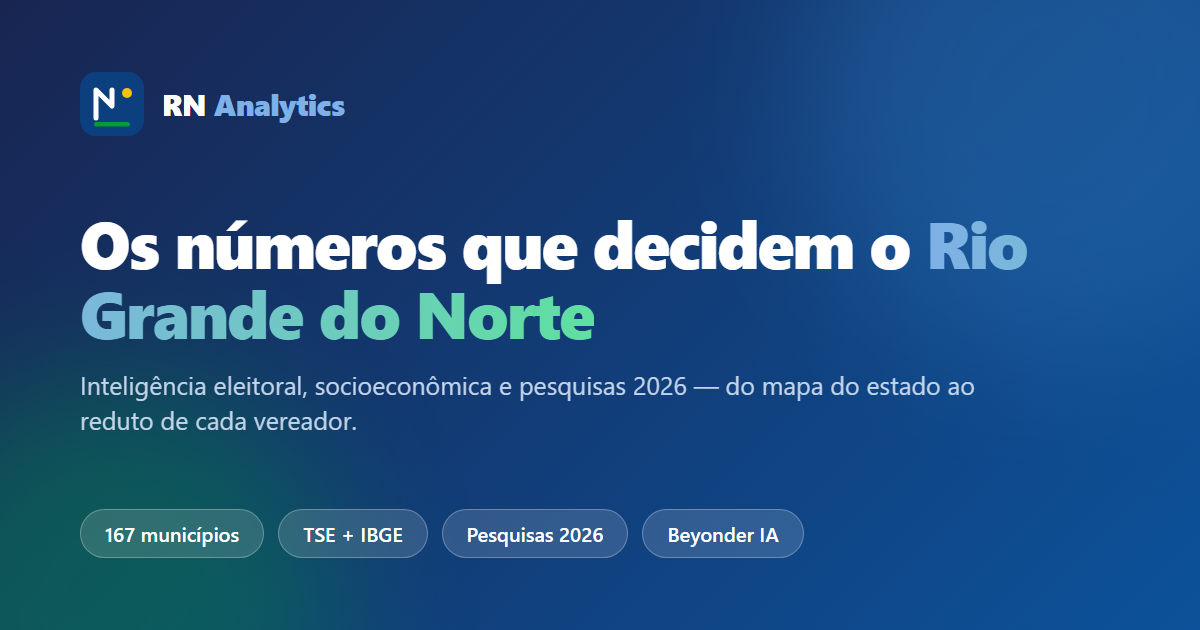
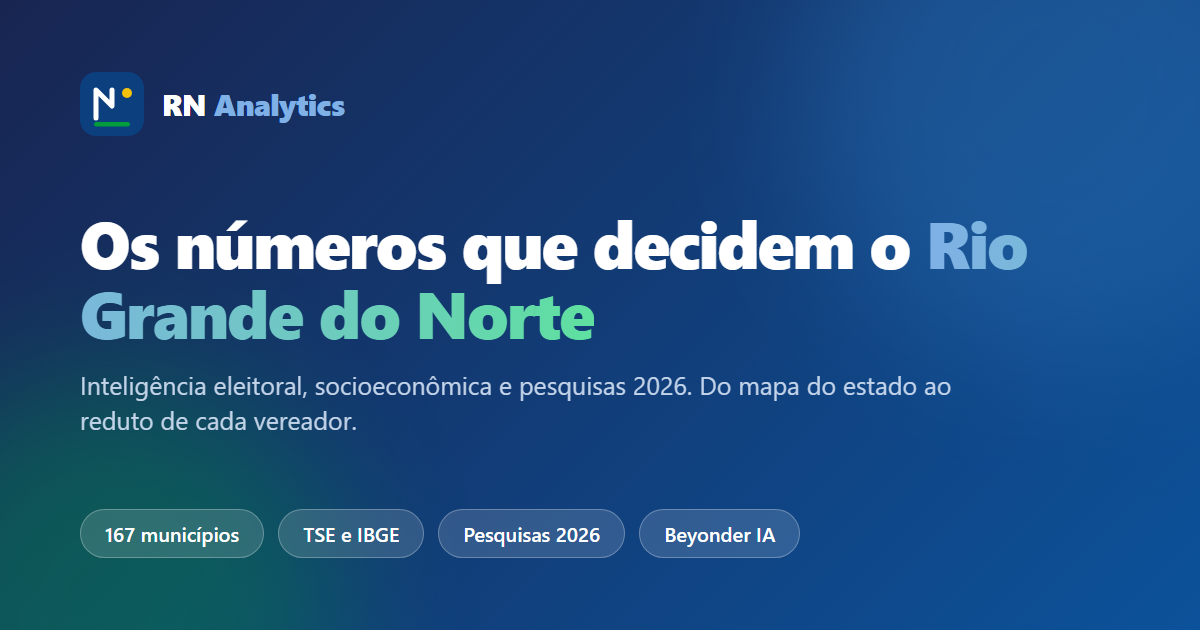
Mapa de ruas (Leaflet) em Currais Novos e escrita humanizada
- Mapa estilo Google nos redutos de Currais Novos: Leaflet + tiles CARTO gratuitos, pinos nas escolas por coordenada, tamanho/cor por votos, popups; alterna com o mapa esquemático
- Remove travessoes da escrita e troca "&" por "e" em todo o sistema (texto mais humano)
- Imagem Open Graph atualizada sem travessao

Changed region(s): [[0.2775, 0.8143, 0.6783, 0.8746], [0.5858, 0.6032, 0.8325, 0.6333]]

diff --git a/web/components/CNStreetMap.tsx b/web/components/CNStreetMap.tsx
@@ -1,0 +1,120 @@
+/* eslint-disable @typescript-eslint/no-explicit-any */
+"use client";
+
+import "leaflet/dist/leaflet.css";
+import { useEffect, useRef } from "react";
+
+export type MapPoint = {
+  nr: string;
+  nome: string;
+  bairro: string;
+  lat: number;
+  long: number;
+  eleitores: number;
+  n_secoes: number;
+  value: number;
+};
+
+// cor: azul claro -> royal -> navy, com dourado no topo (mesma escala do mapa esquemático)
+function colorFor(t: number) {
+  if (t > 0.82) return "#caa106";
+  const lerp = (a: number, b: number) => Math.round(a + (b - a) * t);
+  return `rgb(${lerp(180, 12)}, ${lerp(206, 63)}, ${lerp(235, 126)})`;
+}
+
+export default function CNStreetMap({
+  points,
+  selected,
+  onSelect,
+  max,
+  metricLabel,
+}: {
+  points: MapPoint[];
+  selected: string | null;
+  onSelect: (nr: string | null) => void;
+  max: number;
+  metricLabel: string;
+}) {
+  const elRef = useRef<HTMLDivElement>(null);
+  const mapRef = useRef<any>(null);
+  const layerRef = useRef<any>(null);
+  const LRef = useRef<any>(null);
+  // mantém os valores atuais acessíveis dentro de handlers/closures
+  const dataRef = useRef({ points, selected, onSelect, max, metricLabel });
+  dataRef.current = { points, selected, onSelect, max, metricLabel };
+
+  // inicializa o mapa uma única vez
+  useEffect(() => {
+    let cancelled = false;
+    (async () => {
+      const L = (await import("leaflet")).default as any;
+      if (cancelled || !elRef.current || mapRef.current) return;
+      LRef.current = L;
+      const map = L.map(elRef.current, {
+        scrollWheelZoom: false,
+        zoomControl: true,
+        attributionControl: true,
+      }).setView([-6.262, -36.518], 13);
+      L.tileLayer("https://{s}.basemaps.cartocdn.com/light_all/{z}/{x}/{y}{r}.png", {
+        attribution: '&copy; <a href="https://openstreetmap.org">OSM</a> &copy; <a href="https://carto.com">CARTO</a>',
+        subdomains: "abcd",
+        maxZoom: 19,
+      }).addTo(map);
+      layerRef.current = L.layerGroup().addTo(map);
+      mapRef.current = map;
+      draw();
+      // recalcula tamanho após render
+      setTimeout(() => map.invalidateSize(), 200);
+    })();
+    return () => {
+      cancelled = true;
+      if (mapRef.current) {
+        mapRef.current.remove();
+        mapRef.current = null;
+      }
+    };
+    // eslint-disable-next-line react-hooks/exhaustive-deps
+  }, []);
+
+  // redesenha os marcadores quando os dados mudam
+  useEffect(() => {
+    draw();
+    // eslint-disable-next-line react-hooks/exhaustive-deps
+  }, [points, selected, max, metricLabel]);
+
+  function draw() {
+    const L = LRef.current;
+    const map = mapRef.current;
+    const layer = layerRef.current;
+    if (!L || !map || !layer) return;
+    const { points, selected, onSelect, max, metricLabel } = dataRef.current;
+    layer.clearLayers();
+    const bounds: [number, number][] = [];
+    for (const p of points) {
+      const t = Math.min(1, p.value / (max || 1));
+      const r = 8 + Math.sqrt(t) * 22;
+      const isSel = selected === p.nr;
+      const marker = L.circleMarker([p.lat, p.long], {
+        radius: r,
+        color: isSel ? "#0b1020" : "#ffffff",
+        weight: isSel ? 3 : 1.6,
+        fillColor: colorFor(t),
+        fillOpacity: 0.82,
+      });
+      marker.bindPopup(
+        `<div style="font-family:system-ui,sans-serif;min-width:160px">
+           <b style="color:#182551;font-size:13px">${p.nome}</b><br>
+           <span style="color:#767f93;font-size:11px">${p.bairro || ""} · ${p.n_secoes} seções</span><br>
+           <b style="color:#0c529a;font-size:13px">${metricLabel}: ${p.value.toLocaleString("pt-BR")}</b><br>
+           <span style="color:#767f93;font-size:11px">${p.eleitores.toLocaleString("pt-BR")} eleitores</span>
+         </div>`
+      );
+      marker.on("click", () => onSelect(isSel ? null : p.nr));
+      marker.addTo(layer);
+      bounds.push([p.lat, p.long]);
+    }
+    if (bounds.length) map.fitBounds(bounds, { padding: [40, 40], maxZoom: 14 });
+  }
+
+  return <div ref={elRef} className="w-full rounded-xl overflow-hidden border border-[color:var(--line)]" style={{ height: 460, zIndex: 0 }} />;
+}

diff --git a/web/components/tabs/MapaVotacaoTab.tsx b/web/components/tabs/MapaVotacaoTab.tsx
@@ -8,6 +8,13 @@ import { Card, Mini, SectionTitle } from "../ui";
 import { fmtInt, partidoLabel, type Candidato } from "../../lib/data";
 import { exportCSV } from "../../lib/export";
 import CandidateModal from "../CandidateModal";
+import dynamic from "next/dynamic";
+import type { MapPoint } from "../CNStreetMap";
+
+const CNStreetMap = dynamic(() => import("../CNStreetMap"), {
+  ssr: false,
+  loading: () => <div className="h-[460px] grid place-items-center text-sm text-[color:var(--muted)]">Carregando mapa...</div>,
+});
 
 type Cand = { sq: string; numero: string; nome: string; partido_num: string; votos: number; rank: number; por_local: Record<string, number> };
 type Cargo = { total_nominais: number; brancos: number; nulos: number; legenda: number; candidatos: Cand[] };
@@ -24,6 +31,7 @@ export default function MapaVotacaoTab({ b }: { b: Bundle }) {
   const cache = useRef<Map<number, CNData>>(new Map());
   const [data, setData] = useState<CNData | null>(null);
   const [selReport, setSelReport] = useState<Candidato | null>(null);
+  const [mapMode, setMapMode] = useState<"ruas" | "esquema">("ruas");
 
   useEffect(() => {
     let alive = true;
@@ -45,6 +53,9 @@ export default function MapaVotacaoTab({ b }: { b: Bundle }) {
     selCand ? selCand.por_local[nr] ?? 0 : cargo === "vereador" ? data.locais.find((l) => l.nr === nr)?.vereador_total ?? 0 : data.locais.find((l) => l.nr === nr)?.prefeito_total ?? 0;
   const max = Math.max(1, ...data.locais.map((l) => valueFor(l.nr)));
   const metricLabel = selCand ? selCand.nome.split(" ").slice(0, 2).join(" ") : "Comparecimento";
+  const points: MapPoint[] = data.locais
+    .filter((l) => l.lat != null && l.long != null)
+    .map((l) => ({ nr: l.nr, nome: l.nome, bairro: l.bairro, lat: l.lat as number, long: l.long as number, eleitores: l.eleitores, n_secoes: l.n_secoes, value: valueFor(l.nr) }));
 
   const candFiltrados = C.candidatos.filter((c) => !busca || c.nome.toLowerCase().includes(busca.toLowerCase()) || c.numero.includes(busca));
   const localObj = localSel ? data.locais.find((l) => l.nr === localSel) : null;
@@ -70,7 +81,7 @@ export default function MapaVotacaoTab({ b }: { b: Bundle }) {
   return (
     <div>
       <div className="flex items-start justify-between gap-4 flex-wrap mb-5">
-        <SectionTitle kicker={`Mapa de votação · ${ano}`} title="Redutos de Currais Novos" desc="Cada círculo é um local de votação (geolocalizado). O tamanho e a cor mostram a votação — escolha um candidato para ver onde está a base dele." />
+        <SectionTitle kicker={`Mapa de votação · ${ano}`} title="Redutos de Currais Novos" desc="Cada círculo é um local de votação geolocalizado. O tamanho e a cor mostram a votação. Escolha um candidato para ver onde está a base dele." />
         <div className="flex flex-col items-end gap-2">
           <div className="segment">{ANOS.map((y) => <button key={y} data-active={ano === y} onClick={() => { setAno(y); setSq(null); }}>{y}</button>)}</div>
           <div className="segment">
@@ -86,12 +97,20 @@ export default function MapaVotacaoTab({ b }: { b: Bundle }) {
             <div className="text-sm font-bold text-[color:var(--navy)]">
               {selCand ? <>Reduto de <span className="text-[color:var(--royal)]">{selCand.nome}</span> ({partidoLabel(selCand.partido_num)})</> : "Comparecimento por local"}
             </div>
-            <div className="flex gap-2">
-              {selCand && <button onClick={() => setSq(null)} className="text-xs font-semibold text-[color:var(--royal)]">← comparecimento</button>}
+            <div className="flex gap-2 items-center flex-wrap">
+              <div className="segment">
+                <button data-active={mapMode === "ruas"} onClick={() => setMapMode("ruas")}>Ruas</button>
+                <button data-active={mapMode === "esquema"} onClick={() => setMapMode("esquema")}>Esquema</button>
+              </div>
+              {selCand && <button onClick={() => setSq(null)} className="text-xs font-semibold text-[color:var(--royal)]">voltar ao comparecimento</button>}
               <button onClick={exportRedutos} className="btn btn-ghost text-xs py-1.5 px-3">Exportar CSV</button>
             </div>
           </div>
-          <CNVotingMap boundary={boundary} locais={data.locais} valueFor={valueFor} max={max} selected={localSel} onSelect={setLocalSel} metricLabel={metricLabel} />
+          {mapMode === "ruas" ? (
+            <CNStreetMap points={points} selected={localSel} onSelect={setLocalSel} max={max} metricLabel={metricLabel} />
+          ) : (
+            <CNVotingMap boundary={boundary} locais={data.locais} valueFor={valueFor} max={max} selected={localSel} onSelect={setLocalSel} metricLabel={metricLabel} />
+          )}
           <div className="flex items-center gap-2 text-xs text-[color:var(--muted)] mt-1">
             <span>menos votos</span>
             <div className="flex rounded overflow-hidden">

diff --git a/web/components/tabs/SobreTab.tsx b/web/components/tabs/SobreTab.tsx
@@ -12,8 +12,8 @@ export default function SobreTab() {
           <Card className="p-5 h-full">
             <h3 className="font-bold text-[color:var(--navy)] mb-2">Fontes de dados</h3>
             <ul className="text-sm text-[color:var(--ink-2)] space-y-1.5">
-              <li>• <b>TSE</b> — Dados Abertos: votação por seção, candidatos e eleitorado (2012–2024).</li>
-              <li>• <b>IBGE</b> — Censo 2022, PIB dos Municípios e Malhas Territoriais.</li>
+              <li>• <b>TSE</b> (Dados Abertos): votação por seção, candidatos e eleitorado, de 2012 a 2024.</li>
+              <li>• <b>IBGE</b>: Censo 2022, PIB dos municípios e malhas territoriais.</li>
             </ul>
           </Card>
         </Reveal>
@@ -34,7 +34,7 @@ export default function SobreTab() {
           <h3 className="font-bold text-[color:var(--navy)] mb-2">Integridade e ética</h3>
           <p className="text-sm text-[color:var(--ink-2)] leading-relaxed">
             Todos os números vêm de fontes oficiais e são rastreáveis (fonte e ano registrados). Valores ausentes
-            permanecem em branco — nunca são estimados sem indicação. O TSE divulga apenas votos <b>agregados por
+            permanecem em branco, nunca são estimados sem indicação. O TSE divulga apenas votos <b>agregados por
             seção</b>; nenhum dado individual de eleitor é utilizado. A plataforma analisa o comportamento de
             territórios, não de pessoas.
           </p>
@@ -45,7 +45,7 @@ export default function SobreTab() {
         <div className="mt-6 rounded-[20px] p-6 text-center text-white relative overflow-hidden" style={{ background: "linear-gradient(120deg, var(--navy), var(--royal))" }}>
           <div className="absolute -right-12 -top-12 w-44 h-44 rounded-full" style={{ background: "var(--gold)", opacity: 0.2, filter: "blur(30px)" }} />
           <p className="text-sm opacity-80">Desenvolvido pela</p>
-          <p className="text-2xl wordmark mt-1">Beyonder IA — 2026</p>
+          <p className="text-2xl wordmark mt-1">Beyonder IA · 2026</p>
           <p className="text-sm opacity-80 mt-1">Johnattan Dias</p>
         </div>
       </Reveal>

diff --git a/web/components/tabs/PredictionTab.tsx b/web/components/tabs/PredictionTab.tsx
@@ -147,7 +147,7 @@ export default function PredictionTab({ b }: { b: Bundle }) {
       <div className="flex items-start justify-between gap-4 flex-wrap mb-5">
         <SectionTitle
           kicker="Inteligência preditiva"
-          title={`Projeções & cenários — ${munNome}`}
+          title={`Projeções e cenários de ${munNome}`}
           desc="Projeção das próximas eleições de vereador (2028) a partir da tendência 2012–2024, com simulador de cenários. É uma estimativa estatística, não uma previsão garantida."
         />
         <select
@@ -267,7 +267,7 @@ export default function PredictionTab({ b }: { b: Bundle }) {
           {/* tabela histórica + projeção */}
           <Card className="p-0 overflow-hidden mt-4">
             <div className="px-5 py-4 border-b border-[color:var(--line)]">
-              <h4 className="text-sm font-bold text-[color:var(--navy)]">Participação por partido (%) — histórico e projeção</h4>
+              <h4 className="text-sm font-bold text-[color:var(--navy)]">Participação por partido (%): histórico e projeção</h4>
             </div>
             <div className="overflow-x-auto">
               <table className="w-full text-sm">
@@ -303,7 +303,7 @@ export default function PredictionTab({ b }: { b: Bundle }) {
           {govPesquisa && govPesquisa.cenarios[0] && (
             <Card className="p-5 mt-4">
               <div className="flex items-center justify-between gap-3 flex-wrap mb-1">
-                <h4 className="text-sm font-bold text-[color:var(--navy)]">Cenário 2026 — Governador do RN (pesquisa)</h4>
+                <h4 className="text-sm font-bold text-[color:var(--navy)]">Cenário 2026 para o Governo do RN (pesquisa)</h4>
                 <a href={govPesquisa.fonte_url} target="_blank" rel="noreferrer" className="text-xs font-semibold text-[color:var(--royal)]">
                   {govPesquisa.instituto} · {govPesquisa.data}
                 </a>

diff --git a/web/components/tabs/ConsultasTab.tsx b/web/components/tabs/ConsultasTab.tsx
@@ -15,7 +15,7 @@ export default function ConsultasTab({ b }: { b: Bundle }) {
 
   return (
     <div className="space-y-6">
-      <SectionTitle kicker="Consultas & insights" title="Cruzamento de dados" desc="Combine eleição e socioeconomia para encontrar padrões — redutos disputados, correlações e abstenção." />
+      <SectionTitle kicker="Consultas e insights" title="Cruzamento de dados" desc="Combine eleição e socioeconomia para encontrar padrões: redutos disputados, correlações e abstenção." />
       {cn ? <Comparador cn={cn} /> : <Card className="p-10 text-center text-[color:var(--muted)]">Carregando dados de Currais Novos…</Card>}
       <Correlacao b={b} />
       {cn && <Abstencao cn={cn} />}
@@ -100,7 +100,7 @@ function Correlacao({ b }: { b: Bundle }) {
     <Card className="p-5">
       <h3 className="font-bold text-[color:var(--navy)]">Riqueza × competição política (Seridó)</h3>
       <p className="text-sm text-[color:var(--muted)] mb-1">Cada ponto é um município: PIB per capita vs. candidatos a vereador por 10 mil habitantes.</p>
-      <p className="text-sm mb-3"><b style={{ color: "var(--royal)" }}>Correlação: {corr.toFixed(2)}</b> — {corrTexto(corr)}</p>
+      <p className="text-sm mb-3"><b style={{ color: "var(--royal)" }}>Correlação: {corr.toFixed(2)}</b> · {corrTexto(corr)}</p>
       <svg viewBox={`0 0 ${W} ${H}`} className="w-full h-auto">
         {[0, 0.5, 1].map((g) => <line key={g} x1={pad.l} x2={W - pad.r} y1={pad.t + (H - pad.t - pad.b) * g} y2={pad.t + (H - pad.t - pad.b) * g} stroke="#eef1f7" />)}
         <text x={pad.l} y={H - 12} fontSize="10" fill="#9aa3b5">PIB/capita →</text>

diff --git a/web/app/layout.tsx b/web/app/layout.tsx
@@ -5,7 +5,7 @@ import "./globals.css";
 const inter = Inter({ variable: "--font-inter", subsets: ["latin"], display: "swap" });
 
 const SITE_URL = "https://rn-analytics.vercel.app";
-const TITLE = "RN Analytics — Inteligência eleitoral do Rio Grande do Norte";
+const TITLE = "RN Analytics: inteligência eleitoral do Rio Grande do Norte";
 const DESC =
   "Painel interativo de dados eleitorais (2012–2024), socioeconômicos e pesquisas 2026 dos 167 municípios do RN. Mapa do estado, redutos por seção em Currais Novos, projeções e relatórios em PDF.";
 

diff --git a/web/components/App.tsx b/web/components/App.tsx
@@ -124,7 +124,7 @@ export default function App() {
 
         <footer className="border-t border-[color:var(--line)] py-5 text-center">
           <p className="text-xs text-[color:var(--muted)]">
-            Desenvolvido pela <b className="text-[color:var(--navy)]">Beyonder IA</b> — 2026 · Johnattan Dias · Fontes: TSE e IBGE
+            Desenvolvido pela <b className="text-[color:var(--navy)]">Beyonder IA</b> · 2026 · Johnattan Dias · Fontes: TSE e IBGE
           </p>
         </footer>
       </div>

diff --git a/web/components/CandidateModal.tsx b/web/components/CandidateModal.tsx
@@ -86,7 +86,7 @@ export default function CandidateModal({
     ]);
     exportPDF({
       filename: `relatorio_${cand.nome.replace(/\s+/g, "_").toLowerCase()}_${ctx.ano}.pdf`,
-      title: `${cand.nome} — Vereador · ${ctx.munNome} ${ctx.ano}`,
+      title: `${cand.nome} · Vereador · ${ctx.munNome} ${ctx.ano}`,
       subtitle: `${partidoLabel(cand.partido_num)} · nº ${cand.numero} · ${fmtInt(cand.votos)} votos · ${pct.toFixed(2)}% dos válidos`,
       kpis: [
         { label: "Votos totais", value: fmtInt(cand.votos) },

diff --git a/web/components/tabs/OverviewTab.tsx b/web/components/tabs/OverviewTab.tsx
@@ -39,7 +39,7 @@ export default function OverviewTab({ b, goTo }: { b: Bundle; goTo: (t: SectionI
           <span className="text-gradient">Os números que decidem</span><br />o Rio Grande do Norte
         </h1>
         <p className="text-[17px] sm:text-lg text-[color:var(--muted)] max-w-2xl mx-auto mt-5">
-          Inteligência eleitoral e socioeconômica em um só lugar — do panorama estadual ao reduto de cada
+          Inteligência eleitoral e socioeconômica em um só lugar, do panorama estadual ao reduto de cada
           vereador no Seridó e em Currais Novos.
         </p>
         <div className="flex items-center justify-center gap-3 mt-7 flex-wrap">

diff --git a/web/components/tabs/PesquisasTab.tsx b/web/components/tabs/PesquisasTab.tsx
@@ -61,7 +61,7 @@ export default function PesquisasTab() {
     if (!pesquisa || !cenario || !cargo) return;
     exportPDF({
       filename: `pesquisa_${cargo.cargo.toLowerCase().replace(/\s+/g, "_")}_${pesquisa.instituto.replace(/[^\w]+/g, "_").toLowerCase()}_${pesquisa.data}.pdf`,
-      title: `Pesquisa — ${cargo.cargo} RN 2026`,
+      title: `Pesquisa para ${cargo.cargo} · RN 2026`,
       subtitle: `${pesquisa.instituto}${pesquisa.contratante ? ` · ${pesquisa.contratante}` : ""} · ${fmtData(pesquisa.data)} · ${cenario.nome}`,
       kpis: [
         { label: "Amostra", value: pesquisa.amostra ? fmtInt(pesquisa.amostra) : "—" },

diff --git a/web/components/tabs/VereadoresTab.tsx b/web/components/tabs/VereadoresTab.tsx
@@ -101,7 +101,7 @@ export default function VereadoresTab({ b }: { b: Bundle }) {
   const doPDF = () =>
     exportPDF({
       filename: `${baseName}.pdf`,
-      title: `Vereadores de ${mun.nome} — Eleição ${ano}`,
+      title: `Vereadores de ${mun.nome} · Eleição ${ano}`,
       subtitle: `${filtrados.length} de ${mun.candidatos.length} candidatos${partidos.size ? ` · partidos: ${[...partidos].map(partidoLabel).join(", ")}` : ""}${busca ? ` · busca: "${busca}"` : ""}`,
       kpis: [
         { label: "Candidatos", value: fmtInt(filtrados.length) },